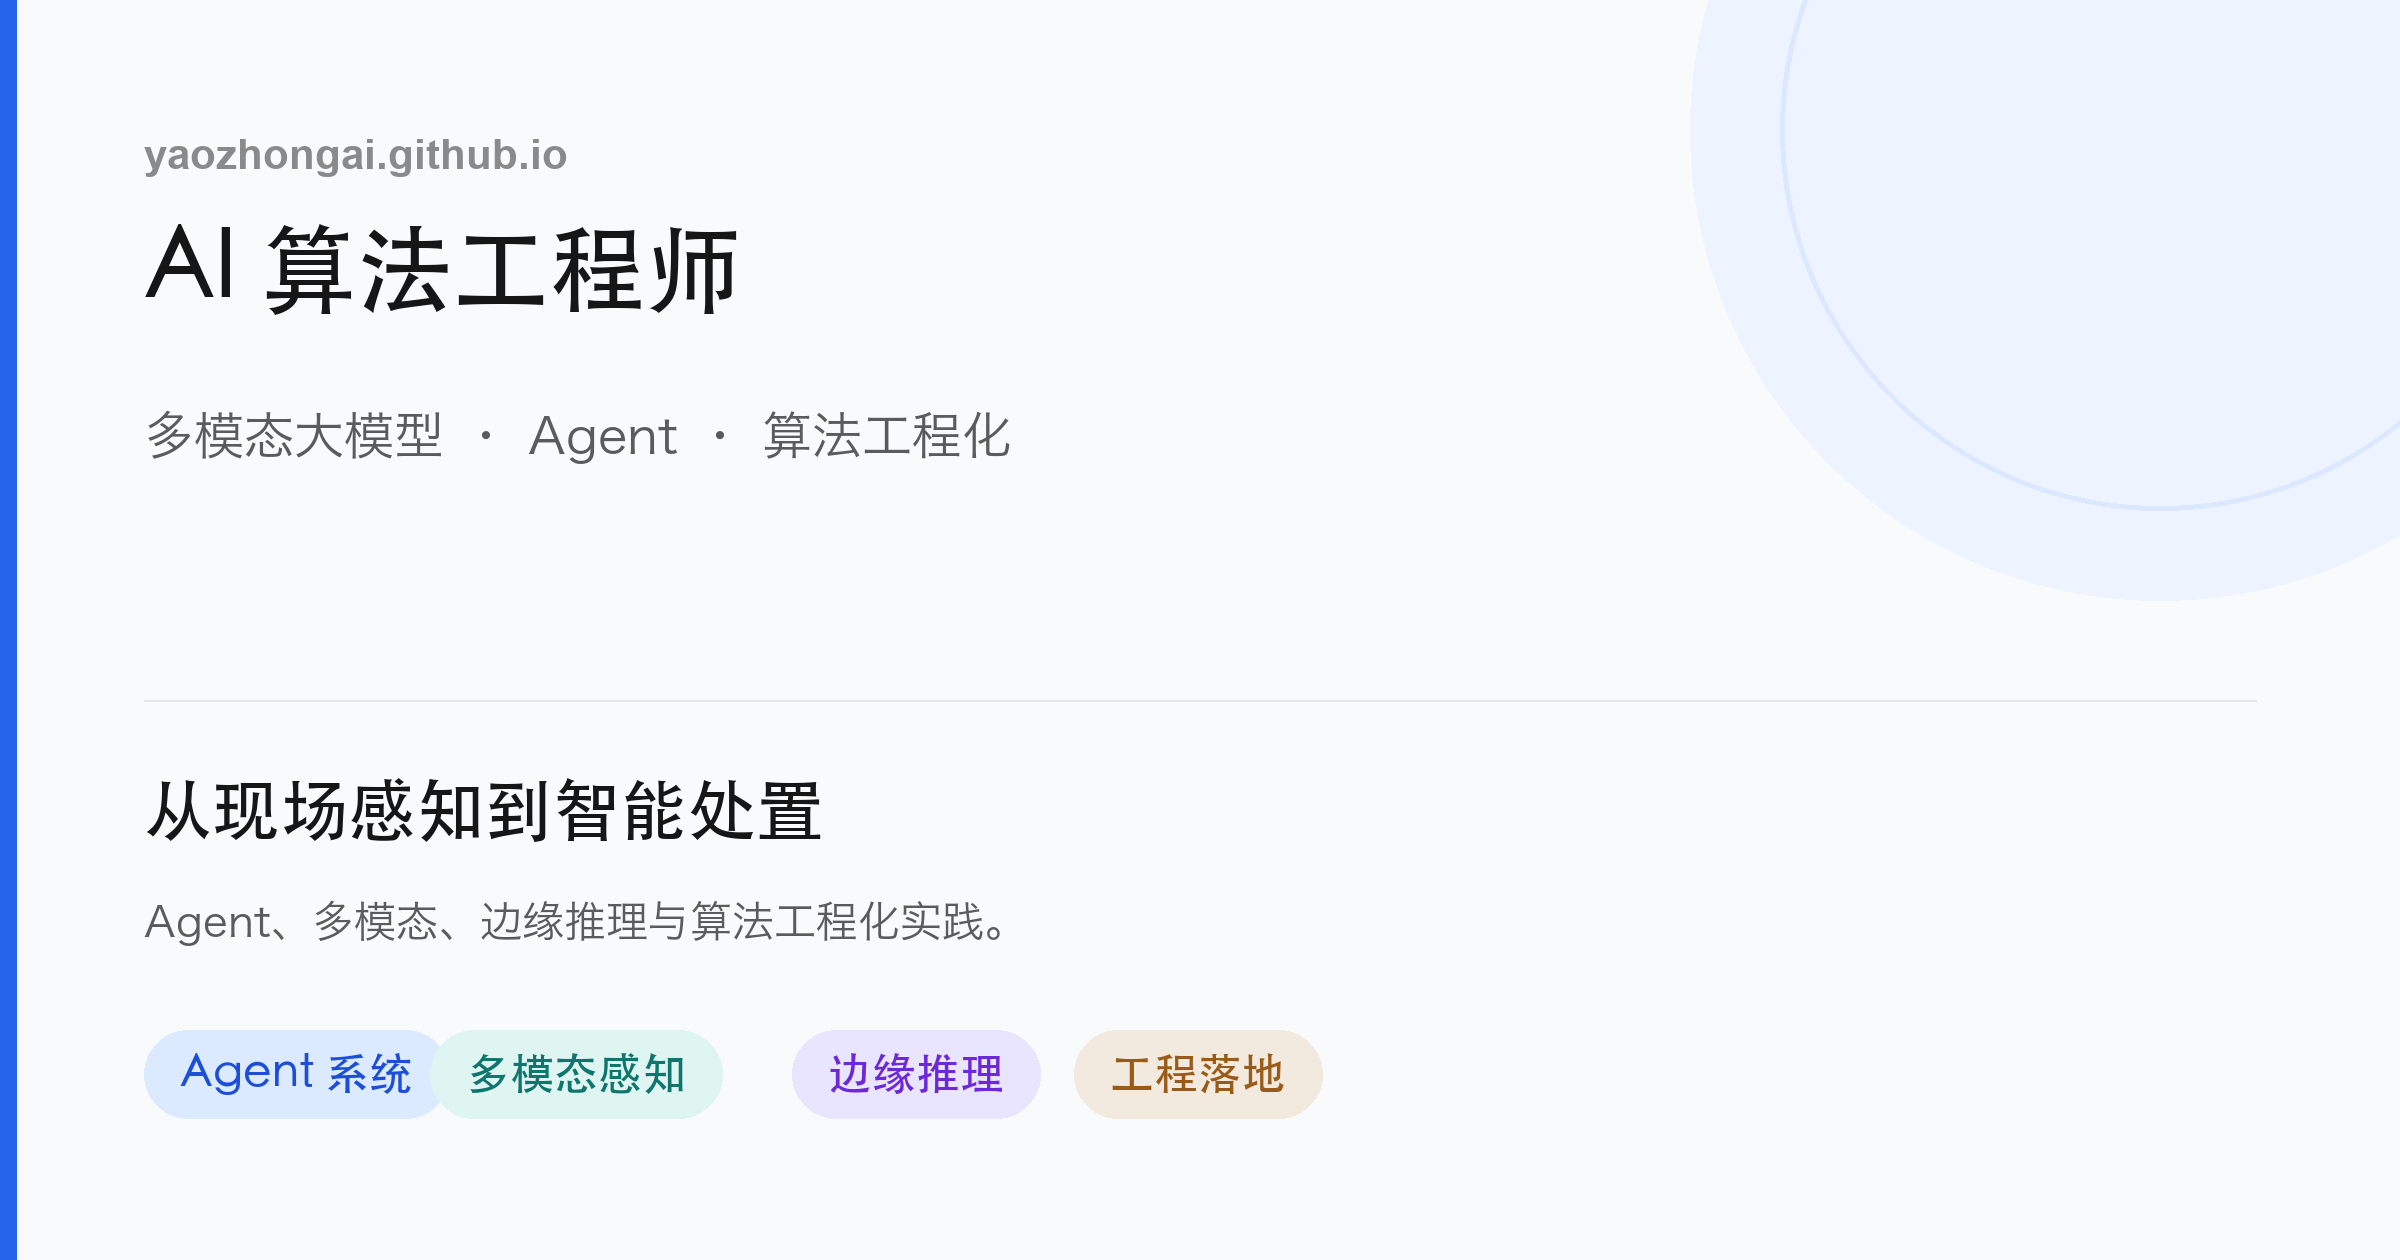
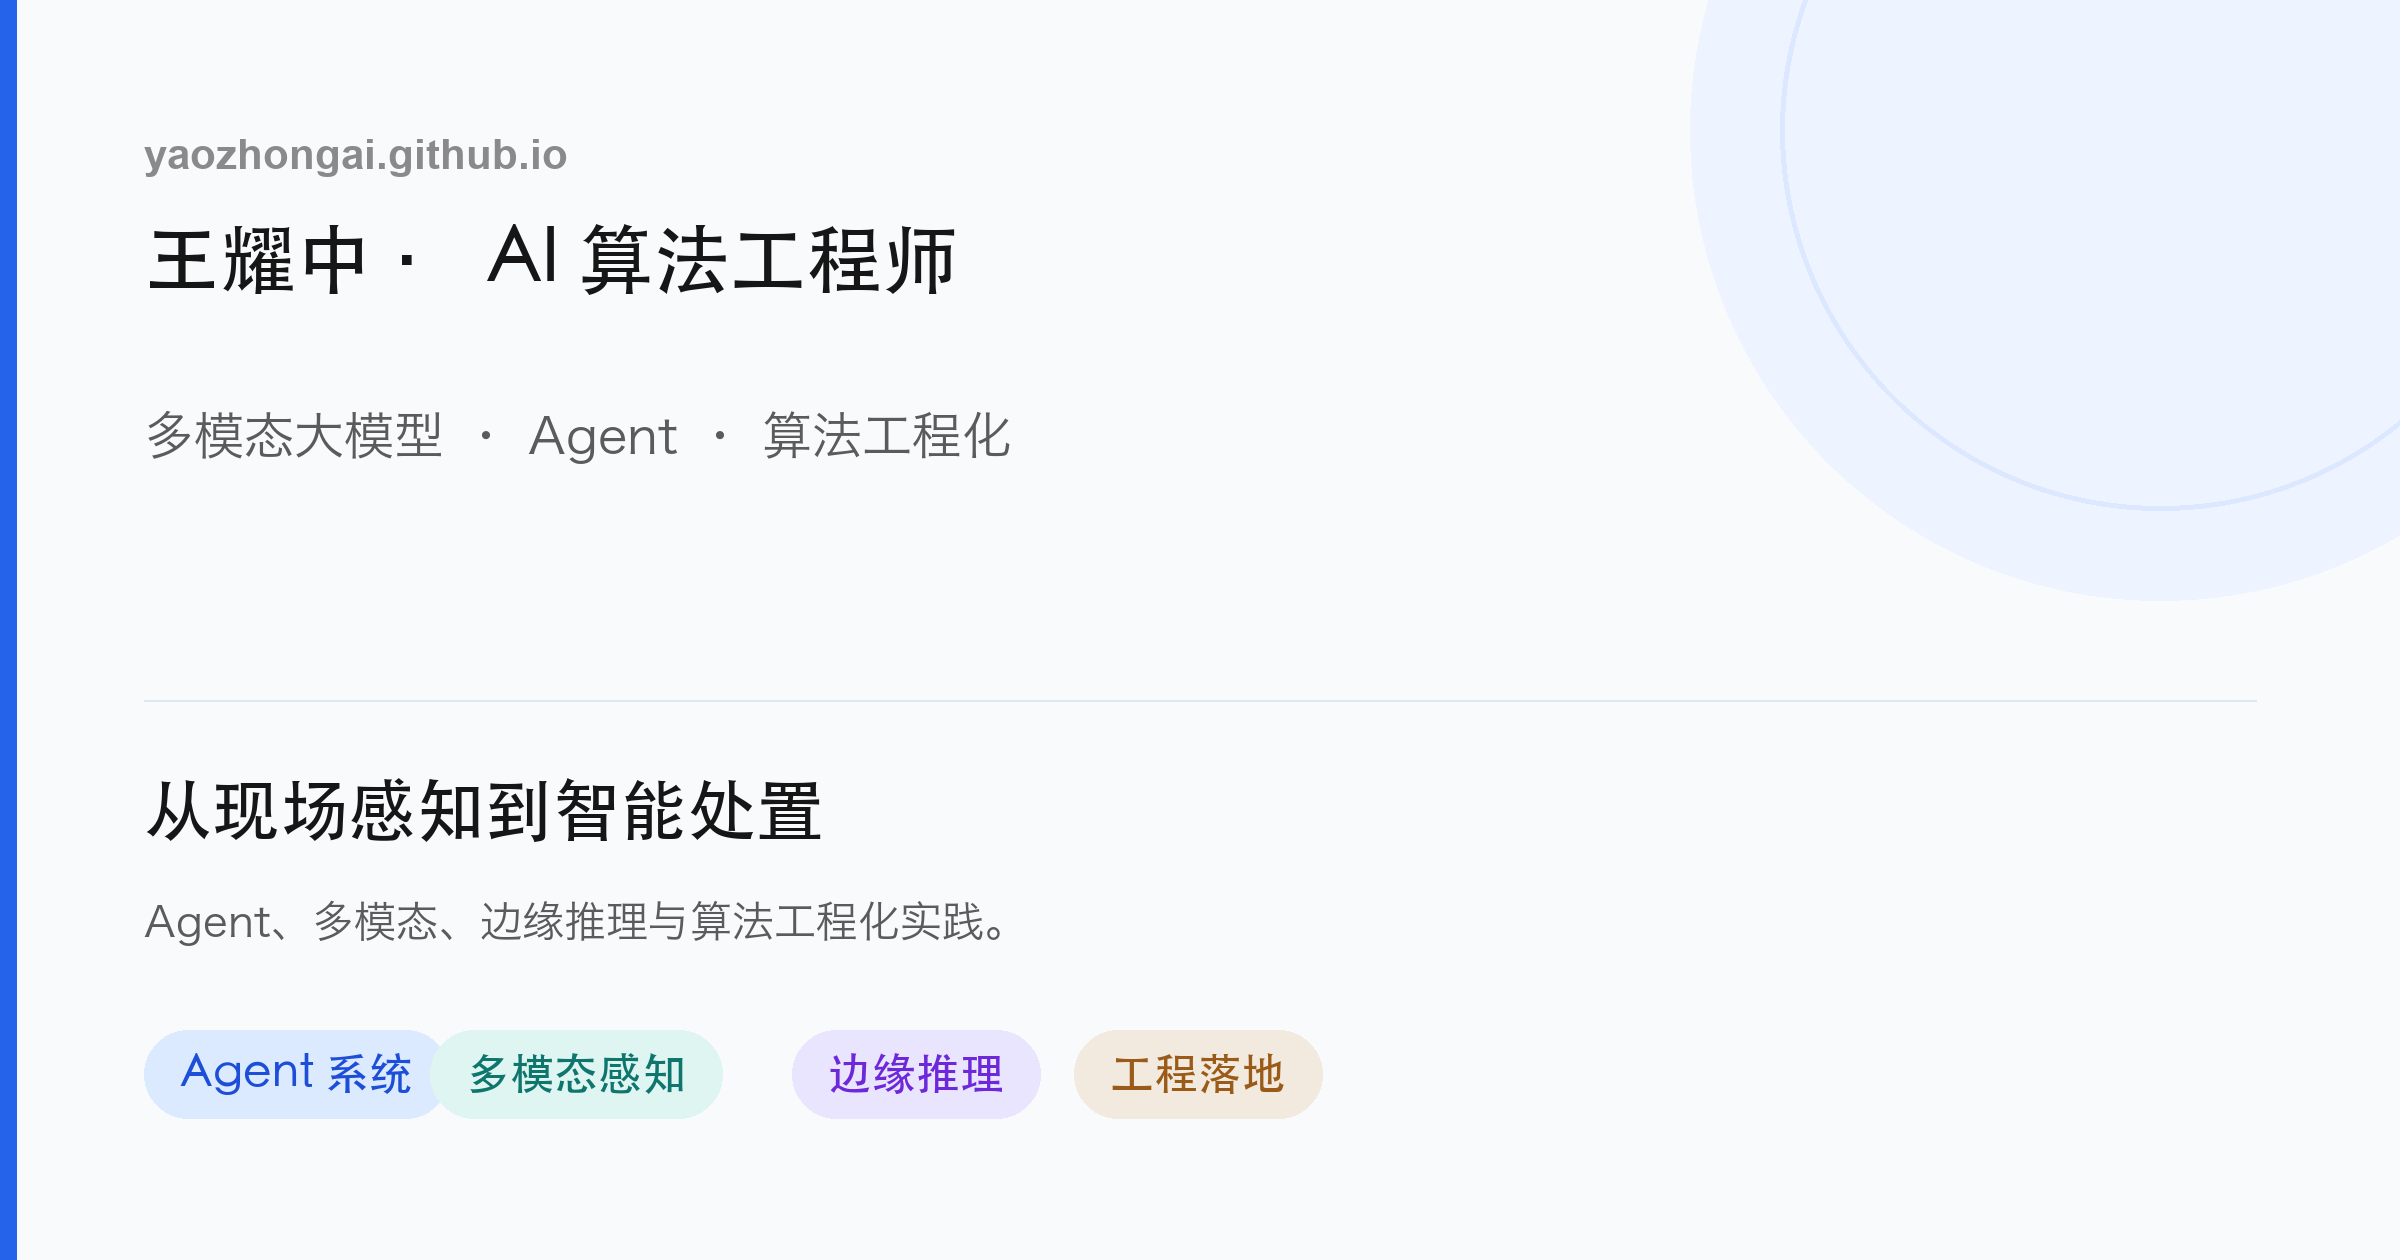
Refine portfolio title

Changed region(s): [[0.0625, 0.1857, 0.4062, 0.2476]]

diff --git a/index.html b/index.html
@@ -148,10 +148,10 @@
     .hero-title {
       margin-top: 14px;
       color: var(--navy);
-      font-size: clamp(1.75rem, 4vw, 2.65rem);
+      font-size: clamp(1.18rem, 2.2vw, 1.35rem);
       font-weight: 650;
-      line-height: 1.35;
-      letter-spacing: -0.025em;
+      line-height: 1.5;
+      letter-spacing: -0.01em;
     }
 
     .hero-summary {
@@ -714,7 +714,7 @@
       <header class="hero" id="top">
         <div>
           <p class="eyebrow">AI SYSTEMS · APPLIED INTELLIGENCE</p>
-          <h1 class="hero-title">AI算法工程师（多模态大模型 · Agent · 算法工程化）</h1>
+          <h1 class="hero-title">王耀中·AI算法工程师（多模态大模型 · Agent · 算法工程化）</h1>
           <p class="hero-summary">前京东算法工程师，具备四年 AI 算法研发与工程落地经验。主要做过仓储设备运维 Agent、多模态感知和边缘推理平台，工作内容覆盖算法研发、服务部署与现场交付。</p>
           <div class="hero-actions">
             <a class="button-link primary" href="#jd-experience">查看工作经历</a>

diff --git a/scripts/generate_og_card.py b/scripts/generate_og_card.py
@@ -39,7 +39,7 @@ draw.ellipse((1690, -340, 2630, 600), fill="#eef4ff")
 draw.ellipse((1780, -250, 2540, 510), outline="#dce8ff", width=5)
 
 draw.text((144, 130), "yaozhongai.github.io", font=font(FONT_LATIN_BOLD, 42), fill="#8a8a8a")
-draw.text((144, 220), "AI 算法工程师", font=font(FONT_CN_BOLD, 96), fill="#161616")
+draw.text((144, 220), "王耀中 · AI 算法工程师", font=font(FONT_CN_BOLD, 76), fill="#161616")
 draw.text(
     (144, 410),
     "多模态大模型 · Agent · 算法工程化",
